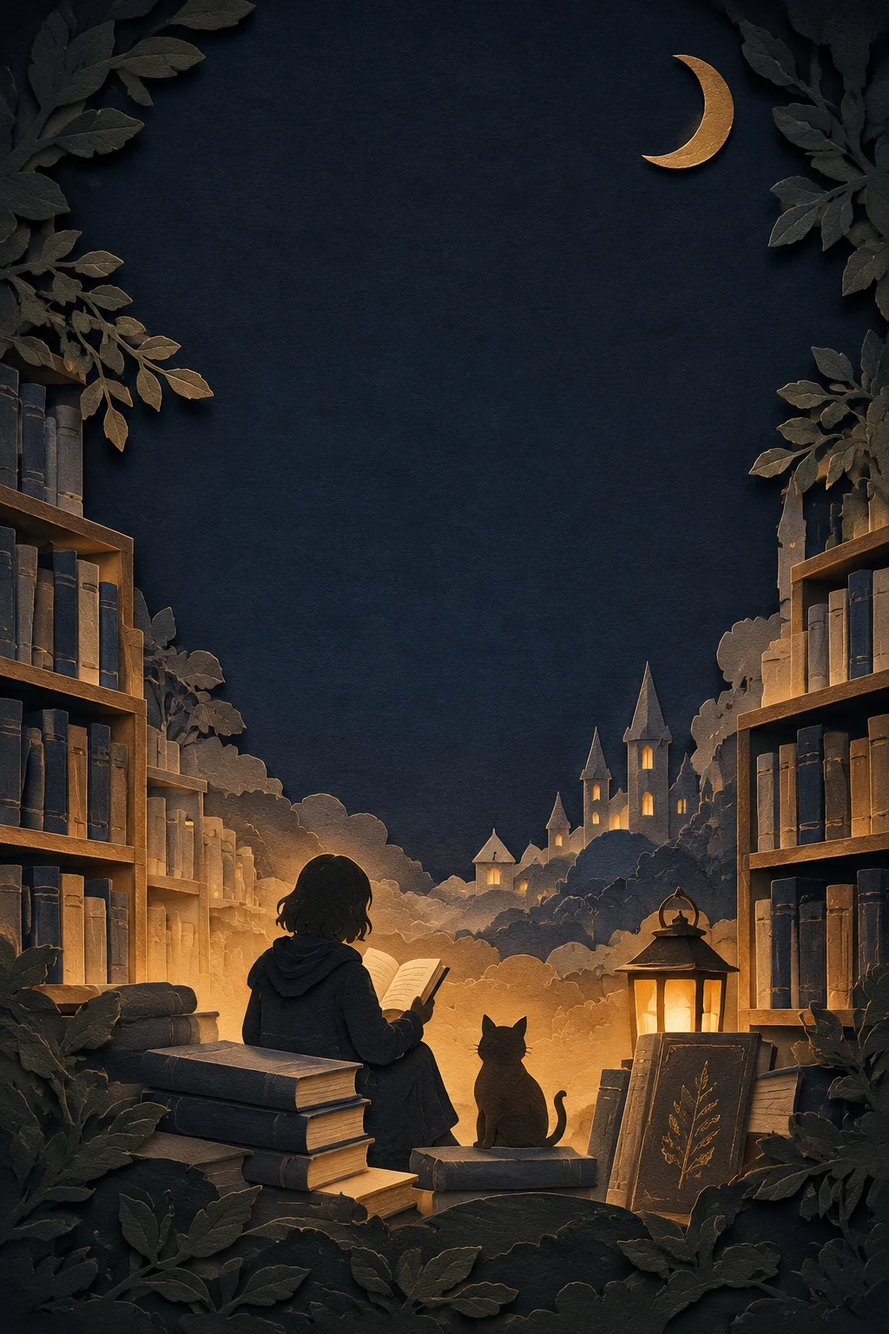
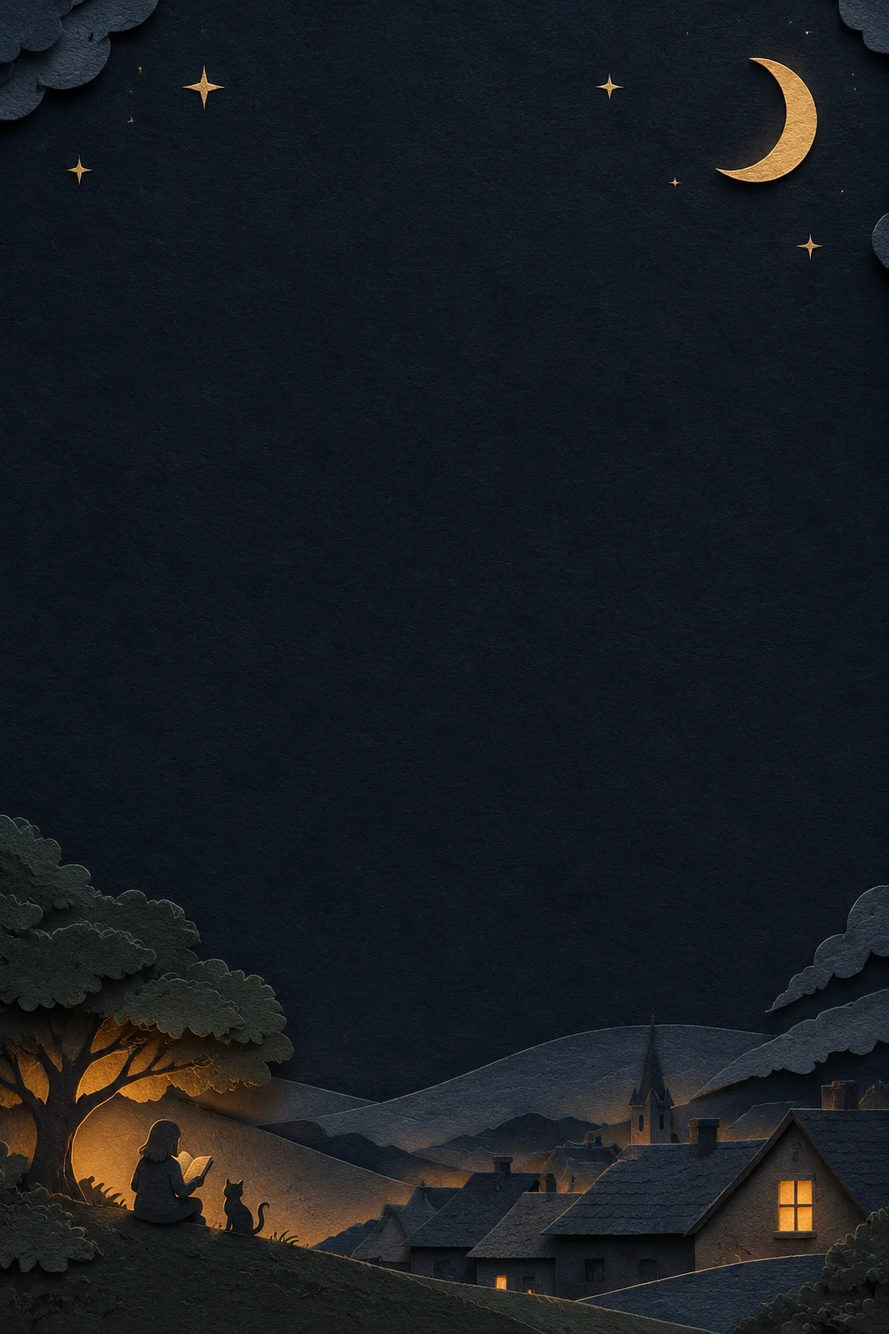
Итоги года: шрифты Unbounded + Onest, итоговый лист на спокойном фоне - одна главная цифра, колонки и номинация в плашке
Claude-Session: https://claude.ai/code/session_01SUGbBE4TZETwu6HLqvYps6

diff --git a/app.html b/app.html
@@ -7564,19 +7564,20 @@ let WRFP=null;const wrFonts=()=>WRFP||(WRFP=Promise.all(WRF.map(([f,n,w,st])=>{t
 // крупный текст антиквой, обложки с тенью. Весь текст подгоняется по размеру: слова не рвутся, длинное сжимается или сокращается с «…»
 async function wrCards(D){
   // «Бумажный театр»: у каждого листа своя картинка (img/itogi/p1-p6), текст - в спокойной верхней части; шрифты бренда - антиква Cormorant и гротеск Onest
-  const SI="NoraSerifI, Georgia, serif",SR="NoraSerif, Georgia, serif",FF="NoraSans, system-ui, sans-serif",GOLD="#E6C27A",CREAM="#F4ECDC",MUTE="rgba(244,236,220,.74)";
-  const CYR="U+0400-045F,U+0490-0491,U+04B0-04B1,U+2116",LAT="U+0000-00FF,U+0131,U+0152-0153,U+02BB-02BC,U+02C6,U+02DA,U+02DC,U+2000-206F,U+2074,U+20AC,U+2122,U+2190-2193,U+2212,U+2215,U+2605,U+FEFF,U+FFFD";
-  if(!wrCards.f){wrCards.f=Promise.all([["NoraSerifI","cormorant-garamond-%s-600-italic","600","italic"],["NoraSerif","cormorant-garamond-%s-600-normal","600","normal"],["NoraSans","onest-%s-500-normal","500","normal"],["NoraSans","onest-%s-600-normal","600","normal"]]
-    .flatMap(([fam,u,w,st])=>[["cyrillic",CYR],["latin",LAT]].map(([sub,ur])=>new FontFace(fam,`url(fonts/${u.replace("%s",sub)}.woff2)`,{weight:w,style:st,unicodeRange:ur}).load().then(f=>document.fonts.add(f)).catch(()=>{})))).catch(()=>{})}
+  const FP={lit:["WrLitI","WrLit","WrMan"],pf:["WrPfI","WrLit","WrMan"],forum:["WrForum","WrForum","WrMan"],unb:["WrUnb","WrUnb","WrOn"],cor:["WrCorI","WrCor","WrOn"]}[window.WR_FONT||"unb"]||["WrLitI","WrLit","WrMan"];
+  const SI=FP[0]+", Georgia, serif",SR=FP[1]+", Georgia, serif",FF=FP[2]+", system-ui, sans-serif",GOLD="#E6C27A",CREAM="#F4ECDC",MUTE="rgba(244,236,220,.74)";
+  const CYR="U+0400-045F,U+0490-0491,U+04B0-04B1,U+2116",LAT="U+0000-00FF,U+0131,U+0152-0153,U+02BB-02BC,U+02C6,U+02DA,U+02DC,U+2000-206F,U+2074,U+20AC,U+2122,U+2190-2193,U+2212,U+2215,U+FEFF,U+FFFD";
+  if(!wrCards.f){const F=[["WrLitI","literata-%s-wght-italic","600","italic"],["WrLit","literata-%s-wght-normal","600","normal"],["WrMan","manrope-%s-500-normal","500","normal"],["WrMan","manrope-%s-600-normal","600","normal"],["WrPfI","playfair-display-%s-600-italic","600","italic"],["WrForum","forum-%s-400-normal","600","normal"],["WrUnb","unbounded-%s-600-normal","600","normal"],["WrOn","onest-%s-500-normal","500","normal"],["WrOn","onest-%s-600-normal","600","normal"],["WrCorI","cormorant-garamond-%s-600-italic","600","italic"],["WrCor","cormorant-garamond-%s-600-normal","600","normal"]];
+    wrCards.f=Promise.all(F.flatMap(([fam,u,w,st])=>[["cyrillic",CYR],["latin",LAT]].map(([sub,ur])=>new FontFace(fam,`url(fonts/${u.replace("%s",sub)}.woff2)`,{weight:w,style:st,unicodeRange:ur}).load().then(f=>document.fonts.add(f)).catch(()=>{})))).catch(()=>{})}
   try{await wrCards.f}catch(e){}
   const n=D.L.length,out=[],hero=D.top[0]||D.last;
-  const ART=await Promise.all([1,2,3,4,5,6].map(k=>wrLd(`img/itogi/p${k}.webp?v=1`)));
+  const ART=await Promise.all([1,2,3,4,5,6].map(k=>wrLd(`img/itogi/p${k}.webp?v=2`)));
   const auN=a=>{a=String(a||"");const m=a.match(/^([^,]+),\s*(\S+)/);return m?m[2]+" "+m[1]:a},st=b=>b&&b.r!=null?Math.max(1,Math.min(5,Math.round(b.r/2))):0;
   const fitT=(x,t,font,maxW,maxL,f0,fmin)=>{t=String(t||"");let f=f0,L;const wr=()=>{x.font=font(f);const W=t.split(/\s+/).filter(Boolean);L=[];let cur="";for(const w of W){const tt=cur?cur+" "+w:w;if(x.measureText(tt).width>maxW&&cur){L.push(cur);cur=w}else cur=tt}if(cur)L.push(cur);return L.length<=maxL&&L.every(l=>x.measureText(l).width<=maxW)};
     while(f>fmin&&!wr())f-=2;if(!wr()){x.font=font(f);L=L.map(l=>{while(l.length>1&&x.measureText(l).width>maxW)l=l.slice(0,-1);return l});if(L.length>maxL){L.length=maxL;let s=L[maxL-1];while(s.length>1&&x.measureText(s+"…").width>maxW)s=s.slice(0,-1);L[maxL-1]=s.trimEnd()+"…"}}return {f,L}};
   const txt=(x,t,y,o)=>{const {f,L}=fitT(x,t,o.font,o.w||900,o.lines||1,o.size,o.min||o.size*.5);x.font=o.font(f);x.fillStyle=o.color||CREAM;x.textAlign="center";x.shadowColor="rgba(0,0,0,.55)";x.shadowBlur=18;const lh=f*(o.lh||1.1);
-    L.forEach((l,i)=>x.fillText(l,540,y+f*.8+i*lh));x.shadowColor="transparent";x.shadowBlur=0;x.textAlign="left";return y+f*.8+(L.length-1)*lh+f*.32};
-  const serif=f=>`italic 600 ${f}px ${SI}`,num=f=>`600 ${f}px ${SR}`,sans=f=>`500 ${f}px ${FF}`,sansB=f=>`600 ${f}px ${FF}`;
+    L.forEach((l,i)=>x.fillText(l,o.cx||540,y+f*.8+i*lh));x.shadowColor="transparent";x.shadowBlur=0;x.textAlign="left";return y+f*.8+(L.length-1)*lh+f*.32};
+  const serif=f=>`${/Forum|Unb/.test(FP[0])?"":"italic "}600 ${f}px ${SI}`,num=f=>`600 ${f}px ${SR}`,sans=f=>`500 ${f}px ${FF}`,sansB=f=>`600 ${f}px ${FF}`;
   const label=(x,t,y)=>txt(x,t,y,{font:sans,size:42,min:28,color:MUTE,w:900});
   // картинка на весь лист (снизу вверх), сверху - мягкое затемнение под текст; dy - сдвиг вниз для картинок, у которых сюжет высоко
   const mk=(k,dy)=>{const c=document.createElement("canvas");c.width=1080;c.height=1920;const x=c.getContext("2d");x.textBaseline="alphabetic";x.fillStyle="#0E1422";x.fillRect(0,0,1080,1920);
@@ -7592,23 +7593,35 @@ async function wrCards(D){
   {const [c,x]=mk(2);let y=label(x,D.top[0]?"Моя книга года":"Последняя книга года",250);y=txt(x,"«"+hero.t+"»",y+10,{font:serif,size:108,min:54,lines:2,w:940});y=txt(x,auN(hero.a),y+4,{font:sans,size:40,min:28,color:MUTE,w:900});stars(x,st(hero),y+14);out.push(c)}
   // 3. время с книгой: часы (45 страниц в час) и перелёты Москва - Владивосток (8 часов)
   {const [c,x]=mk(3,150),h=Math.round((D.pg||0)/45);let y=label(x,"Время с книгой",250);
-    if(h>=2){y=txt(x,`${h.toLocaleString("ru-RU")} ${plural(h,"час","часа","часов")}`,y+10,{font:num,size:190,min:90,w:960});const fl=Math.floor(h/8);
+    if(h>=2){y=txt(x,`${h.toLocaleString("ru-RU")} ${plural(h,"час","часа","часов")}`,y+10,{font:num,size:190,min:90,w:960});y=txt(x,"примерно, если читать в обычном темпе",y-6,{font:sans,size:32,color:MUTE});const fl=Math.floor(h/8);
       y=txt(x,`${D.pg.toLocaleString("ru-RU")} ${plural(D.pg,"страница","страницы","страниц")}`+(fl>=1?` - как ${fl} ${plural(fl,"перелёт","перелёта","перелётов")}`:""),y+6,{font:sans,size:38,min:26,color:MUTE,w:900});if(fl>=1)txt(x,"Москва - Владивосток",y,{font:sans,size:38,color:MUTE})}
     else{y=txt(x,`${n} ${plural(n,"книга","книги","книг")}`,y+10,{font:num,size:190,min:90,w:960});txt(x,"за этот год",y+6,{font:sans,size:38,color:MUTE})}
     out.push(c)}
   // 4. автор года или самая толстая книга
   {const A=D.au[0];if(A&&A[1]>=2){const [c,x]=mk(4);let y=label(x,"Автор года",250);y=txt(x,auN(A[0]),y+10,{font:serif,size:112,min:54,lines:2,w:940});txt(x,`${A[1]} ${plural(A[1],"книга","книги","книг")} за год`,y+8,{font:sansB,size:46,color:GOLD});out.push(c)}
     else if(D.long&&D.long.pg){const L=D.long,[c,x]=mk(4);let y=label(x,"Самая толстая книга",250);y=txt(x,"«"+L.t+"»",y+10,{font:serif,size:100,min:50,lines:2,w:940});y=txt(x,`${L.pg.toLocaleString("ru-RU")} ${plural(L.pg,"страница","страницы","страниц")}`,y+8,{font:sansB,size:46,color:GOLD});txt(x,auN(L.a),y+4,{font:sans,size:38,min:26,color:MUTE,w:900});out.push(c)}}
+  // номинация года (нужна на 5-м и на итоговом листе)
+  const NOM=(()=>{const L=D.L,tg=b=>(catOf(b)||b).tags||[],sh=f=>L.filter(f).length/n,rt=L.filter(b=>b.r!=null),av=rt.length?rt.reduce((s,b)=>s+b.r/2,0)/rt.length:0,bigB=L.filter(b=>(b.pg||0)>=500).length,mx=Math.max(...D.mon);
+    const N=[[sh(b=>tg(b).some(t=>/любов|ромэнтези/.test(t)))>=.4,"Я всё ещё верю в любовь","Больше всего книг о любви"],[sh(b=>tg(b).some(t=>/триллер|хоррор|жутковат|мрачн/.test(t)))>=.4,"Тёмная душа","Больше всего триллеров и мрачных историй"],[bigB>=3&&bigB/n>=.4,"Коллекционер кирпичей","Больше всего книг от 500 страниц"],[sh(b=>b.g==="classic")>=.4,"Вечный студент","Больше всего классики"],[D.au[0]&&D.au[0][1]>=3,"Один автор - одна любовь",D.au[0]?`${D.au[0][1]} ${plural(D.au[0][1],"книга","книги","книг")} - ${auN(D.au[0][0])}`:""],[rt.length>=5&&av>=4.5,"Книжный сноб наоборот","Почти всё на пятёрку"],[rt.length>=5&&av<=3,"Критик года","Пятёрки нужно заслужить"],[mx>=5,"Работать не хочу, читать хочу",`${mx} ${plural(mx,"книга","книги","книг")} за один месяц`],[new Set(L.map(b=>b.g)).size>=5,"Читаю всё подряд","Больше пяти разных жанров"],[true,"Своя волна","Год, не похожий ни на чей другой"]];return N.find(z=>z[0])})();
   // 5. номинация года и читательский тип
-  {const L=D.L,tg=b=>(catOf(b)||b).tags||[],sh=f=>L.filter(f).length/n,rt=L.filter(b=>b.r!=null),av=rt.length?rt.reduce((s,b)=>s+b.r/2,0)/rt.length:0,bigB=L.filter(b=>(b.pg||0)>=500).length,mx=Math.max(...D.mon);
-    const N=[[sh(b=>tg(b).some(t=>/любов|ромэнтези/.test(t)))>=.4,"Я всё ещё верю в любовь","Больше всего книг о любви"],[sh(b=>tg(b).some(t=>/триллер|хоррор|жутковат|мрачн/.test(t)))>=.4,"Тёмная душа","Больше всего триллеров и мрачных историй"],[bigB>=3&&bigB/n>=.4,"Коллекционер кирпичей","Больше всего книг от 500 страниц"],[sh(b=>b.g==="classic")>=.4,"Вечный студент","Больше всего классики"],[D.au[0]&&D.au[0][1]>=3,"Один автор - одна любовь",D.au[0]?`${D.au[0][1]} ${plural(D.au[0][1],"книга","книги","книг")} - ${auN(D.au[0][0])}`:""],[rt.length>=5&&av>=4.5,"Книжный сноб наоборот","Почти всё на пятёрку"],[rt.length>=5&&av<=3,"Критик года","Пятёрки нужно заслужить"],[mx>=5,"Работать не хочу, читать хочу",`${mx} ${plural(mx,"книга","книги","книг")} за один месяц`],[new Set(L.map(b=>b.g)).size>=5,"Читаю всё подряд","Больше пяти разных жанров"],[true,"Своя волна","Год, не похожий ни на чей другой"]],w=N.find(z=>z[0]);
+  {const w=NOM;
     const [c,x]=mk(5,110);let y=label(x,"Номинация года",230);y=txt(x,"«"+w[1]+"»",y+10,{font:serif,size:96,min:48,lines:2,w:940});y=txt(x,w[2],y+4,{font:sans,size:38,min:26,lines:2,color:MUTE,w:900});
     y=txt(x,"мой читательский тип",y+40,{font:sansB,size:34,color:GOLD});txt(x,D.type[0],y,{font:serif,size:68,min:40,lines:2,w:900});out.push(c)}
-  // 6. итог: год в цифрах
-  {const [c,x]=mk(6);let y=txt(x,`Мой ${D.Y} в цифрах`,210,{font:serif,size:100,min:60,w:960})+30;const rt=D.L.filter(b=>b.r!=null),bm=D.mon[D.best]||0;
-    const love=D.L.filter(b=>((catOf(b)||b).tags||[]).some(t=>/ромэнтези/.test(t))).length,g0=(D.gk[0]||[])[0],gen=love>=Math.max(2,(D.gk[0]||[0,0])[1]*.6)?"ромэнтези":g0&&GEN[g0]?GEN[g0].toLowerCase():"";
-    const R=[[String(n),plural(n,"книга","книги","книг"),1]];if(D.pg)R.push([D.pg.toLocaleString("ru-RU"),plural(D.pg,"страница","страницы","страниц")]);if(bm>=2)R.push([WR_MF[D.best],"самый читающий месяц"]);if(gen)R.push([gen,"любимый жанр"]);if(rt.length>=3)R.push([D.avg.toFixed(1).replace(".",","),"средняя оценка"]);
-    const big=R.length>4?78:88;R.forEach(([v,l,g])=>{y=txt(x,v,y,{font:num,size:big,min:44,w:900,color:g?GOLD:CREAM});y=txt(x,l,y-10,{font:sans,size:34,color:MUTE})+18});out.push(c)}
+  // 6. итог: одна главная цифра (страницы), под ней две колонки, жанр и номинация в отдельной плашке
+  {const [c,x]=mk(6);const bm=D.mon[D.best]||0,love=D.L.filter(b=>((catOf(b)||b).tags||[]).some(t=>/ромэнтези/.test(t))).length,g0=(D.gk[0]||[])[0],gen=love>=Math.max(2,(D.gk[0]||[0,0])[1]*.6)?"ромэнтези":g0&&GEN[g0]?GEN[g0].toLowerCase():"";
+    const lab=(t,y,cx,w)=>txt(x,t,y,{font:sans,size:30,min:22,lines:2,color:MUTE,w:w||420,cx}),line=y=>{x.fillStyle="rgba(230,194,122,.35)";x.fillRect(340,y,400,2)};
+    let y=txt(x,`Мой ${D.Y} в цифрах`,250,{font:sansB,size:44,color:CREAM})+30;
+    if(D.pg){y=txt(x,D.pg.toLocaleString("ru-RU"),y,{font:num,size:180,min:100,w:920,color:GOLD});y=lab(plural(D.pg,"страница прочитана","страницы прочитано","страниц прочитано"),y-12,540,700)+44}
+    else{y=txt(x,String(n),y,{font:num,size:180,color:GOLD});y=lab(plural(n,"книга прочитана","книги прочитано","книг прочитано"),y-12,540,700)+44}
+    line(y-20);y+=24;
+    const L2=[];if(D.pg)L2.push([String(n),plural(n,"книга","книги","книг")]);if(bm>=2)L2.push([WR_MF[D.best],"самый читающий месяц"]);
+    if(L2.length===2){const ya=txt(x,L2[0][0],y,{font:num,size:76,w:420,cx:290}),yb=txt(x,L2[1][0],y+8,{font:num,size:60,min:40,w:440,cx:790});const y2=Math.max(ya,yb);lab(L2[0][1],y2-6,290);y=lab(L2[1][1],y2-6,790)+36}
+    else if(L2.length===1){y=txt(x,L2[0][0],y,{font:num,size:76,w:600});y=lab(L2[0][1],y-6,540)+36}
+    if(gen){y=lab("любимый жанр",y,540,700);y=txt(x,gen,y,{font:sansB,size:50,min:34,w:860})+30}
+    // номинация - в бумажной плашке
+    {const {f,L:TL}=fitT(x,"«"+NOM[1]+"»",serif,760,2,48,32),bh=78+TL.length*f*1.15+34,by=y+10;x.fillStyle="rgba(10,14,26,.62)";wrRR(x,140,by,800,bh,36);x.fill();x.strokeStyle="rgba(230,194,122,.5)";x.lineWidth=2;x.stroke();
+      x.font=sans(30);x.fillStyle=GOLD;x.textAlign="center";x.fillText("номинация года",540,by+56);x.font=serif(f);x.fillStyle=CREAM;TL.forEach((l,k)=>x.fillText(l,540,by+78+f*.9+k*f*1.15));x.textAlign="left"}
+    out.push(c)}
   return out}
 function wrFill(){if(WR&&WR.u&&!wrEl.querySelector(".wr-full"))wrDraw()}
 function wrPrep(){if(!WR)return Promise.resolve(null);const W=WR;if(!W.p)W.p=wrCards(W.D).then(cs=>Promise.all(cs.map(c=>new Promise(r=>{try{c.toBlob(b=>r(b),"image/png")}catch(e){r(null)}})))).then(bs=>{bs=bs.filter(Boolean);return bs.length?bs:null}).catch(()=>null);

diff --git a/app-dev.html b/app-dev.html
@@ -7564,19 +7564,19 @@ let WRFP=null;const wrFonts=()=>WRFP||(WRFP=Promise.all(WRF.map(([f,n,w,st])=>{t
 // крупный текст антиквой, обложки с тенью. Весь текст подгоняется по размеру: слова не рвутся, длинное сжимается или сокращается с «…»
 async function wrCards(D){
   // «Бумажный театр»: у каждого листа своя картинка (img/itogi/p1-p6), текст - в спокойной верхней части; шрифты бренда - антиква Cormorant и гротеск Onest
-  const FP={lit:["WrLitI","WrLit","WrMan"],pf:["WrPfI","WrLit","WrMan"],forum:["WrForum","WrForum","WrMan"],unb:["WrUnb","WrUnb","WrOn"],cor:["WrCorI","WrCor","WrOn"]}[window.WR_FONT||"lit"]||["WrLitI","WrLit","WrMan"];
+  const FP={lit:["WrLitI","WrLit","WrMan"],pf:["WrPfI","WrLit","WrMan"],forum:["WrForum","WrForum","WrMan"],unb:["WrUnb","WrUnb","WrOn"],cor:["WrCorI","WrCor","WrOn"]}[window.WR_FONT||"unb"]||["WrLitI","WrLit","WrMan"];
   const SI=FP[0]+", Georgia, serif",SR=FP[1]+", Georgia, serif",FF=FP[2]+", system-ui, sans-serif",GOLD="#E6C27A",CREAM="#F4ECDC",MUTE="rgba(244,236,220,.74)";
   const CYR="U+0400-045F,U+0490-0491,U+04B0-04B1,U+2116",LAT="U+0000-00FF,U+0131,U+0152-0153,U+02BB-02BC,U+02C6,U+02DA,U+02DC,U+2000-206F,U+2074,U+20AC,U+2122,U+2190-2193,U+2212,U+2215,U+FEFF,U+FFFD";
   if(!wrCards.f){const F=[["WrLitI","literata-%s-wght-italic","600","italic"],["WrLit","literata-%s-wght-normal","600","normal"],["WrMan","manrope-%s-500-normal","500","normal"],["WrMan","manrope-%s-600-normal","600","normal"],["WrPfI","playfair-display-%s-600-italic","600","italic"],["WrForum","forum-%s-400-normal","600","normal"],["WrUnb","unbounded-%s-600-normal","600","normal"],["WrOn","onest-%s-500-normal","500","normal"],["WrOn","onest-%s-600-normal","600","normal"],["WrCorI","cormorant-garamond-%s-600-italic","600","italic"],["WrCor","cormorant-garamond-%s-600-normal","600","normal"]];
     wrCards.f=Promise.all(F.flatMap(([fam,u,w,st])=>[["cyrillic",CYR],["latin",LAT]].map(([sub,ur])=>new FontFace(fam,`url(fonts/${u.replace("%s",sub)}.woff2)`,{weight:w,style:st,unicodeRange:ur}).load().then(f=>document.fonts.add(f)).catch(()=>{})))).catch(()=>{})}
   try{await wrCards.f}catch(e){}
   const n=D.L.length,out=[],hero=D.top[0]||D.last;
-  const ART=await Promise.all([1,2,3,4,5,6].map(k=>wrLd(`img/itogi/p${k}.webp?v=1`)));
+  const ART=await Promise.all([1,2,3,4,5,6].map(k=>wrLd(`img/itogi/p${k}.webp?v=2`)));
   const auN=a=>{a=String(a||"");const m=a.match(/^([^,]+),\s*(\S+)/);return m?m[2]+" "+m[1]:a},st=b=>b&&b.r!=null?Math.max(1,Math.min(5,Math.round(b.r/2))):0;
   const fitT=(x,t,font,maxW,maxL,f0,fmin)=>{t=String(t||"");let f=f0,L;const wr=()=>{x.font=font(f);const W=t.split(/\s+/).filter(Boolean);L=[];let cur="";for(const w of W){const tt=cur?cur+" "+w:w;if(x.measureText(tt).width>maxW&&cur){L.push(cur);cur=w}else cur=tt}if(cur)L.push(cur);return L.length<=maxL&&L.every(l=>x.measureText(l).width<=maxW)};
     while(f>fmin&&!wr())f-=2;if(!wr()){x.font=font(f);L=L.map(l=>{while(l.length>1&&x.measureText(l).width>maxW)l=l.slice(0,-1);return l});if(L.length>maxL){L.length=maxL;let s=L[maxL-1];while(s.length>1&&x.measureText(s+"…").width>maxW)s=s.slice(0,-1);L[maxL-1]=s.trimEnd()+"…"}}return {f,L}};
   const txt=(x,t,y,o)=>{const {f,L}=fitT(x,t,o.font,o.w||900,o.lines||1,o.size,o.min||o.size*.5);x.font=o.font(f);x.fillStyle=o.color||CREAM;x.textAlign="center";x.shadowColor="rgba(0,0,0,.55)";x.shadowBlur=18;const lh=f*(o.lh||1.1);
-    L.forEach((l,i)=>x.fillText(l,540,y+f*.8+i*lh));x.shadowColor="transparent";x.shadowBlur=0;x.textAlign="left";return y+f*.8+(L.length-1)*lh+f*.32};
+    L.forEach((l,i)=>x.fillText(l,o.cx||540,y+f*.8+i*lh));x.shadowColor="transparent";x.shadowBlur=0;x.textAlign="left";return y+f*.8+(L.length-1)*lh+f*.32};
   const serif=f=>`${/Forum|Unb/.test(FP[0])?"":"italic "}600 ${f}px ${SI}`,num=f=>`600 ${f}px ${SR}`,sans=f=>`500 ${f}px ${FF}`,sansB=f=>`600 ${f}px ${FF}`;
   const label=(x,t,y)=>txt(x,t,y,{font:sans,size:42,min:28,color:MUTE,w:900});
   // картинка на весь лист (снизу вверх), сверху - мягкое затемнение под текст; dy - сдвиг вниз для картинок, у которых сюжет высоко
@@ -7607,13 +7607,21 @@ async function wrCards(D){
   {const w=NOM;
     const [c,x]=mk(5,110);let y=label(x,"Номинация года",230);y=txt(x,"«"+w[1]+"»",y+10,{font:serif,size:96,min:48,lines:2,w:940});y=txt(x,w[2],y+4,{font:sans,size:38,min:26,lines:2,color:MUTE,w:900});
     y=txt(x,"мой читательский тип",y+40,{font:sansB,size:34,color:GOLD});txt(x,D.type[0],y,{font:serif,size:68,min:40,lines:2,w:900});out.push(c)}
-  // 6. итог: год в цифрах - страницы первыми и крупно, потом книги, месяц, жанр и номинация
-  {const [c,x]=mk(6);let y=txt(x,`Мой ${D.Y} в цифрах`,200,{font:serif,size:92,min:56,w:960})+24;const bm=D.mon[D.best]||0;
-    const love=D.L.filter(b=>((catOf(b)||b).tags||[]).some(t=>/ромэнтези/.test(t))).length,g0=(D.gk[0]||[])[0],gen=love>=Math.max(2,(D.gk[0]||[0,0])[1]*.6)?"ромэнтези":g0&&GEN[g0]?GEN[g0].toLowerCase():"";
-    if(D.pg){y=txt(x,D.pg.toLocaleString("ru-RU"),y,{font:num,size:200,min:110,w:960,color:GOLD});y=txt(x,plural(D.pg,"страница","страницы","страниц"),y-18,{font:sans,size:40,color:MUTE})+22}
-    const R=[[String(n),plural(n,"книга","книги","книг")]];if(!D.pg)R[0].push(1);if(bm>=2)R.push([WR_MF[D.best],"самый читающий месяц"]);if(gen)R.push([gen,"любимый жанр"]);
-    R.forEach(([v,l,g])=>{y=txt(x,v,y,{font:num,size:g?150:72,min:40,w:900,color:g?GOLD:CREAM});y=txt(x,l,y-10,{font:sans,size:32,color:MUTE})+14});
-    y=txt(x,"«"+NOM[1]+"»",y+6,{font:serif,size:60,min:36,lines:2,w:900});txt(x,"номинация года",y-6,{font:sans,size:32,color:MUTE});out.push(c)}
+  // 6. итог: одна главная цифра (страницы), под ней две колонки, жанр и номинация в отдельной плашке
+  {const [c,x]=mk(6);const bm=D.mon[D.best]||0,love=D.L.filter(b=>((catOf(b)||b).tags||[]).some(t=>/ромэнтези/.test(t))).length,g0=(D.gk[0]||[])[0],gen=love>=Math.max(2,(D.gk[0]||[0,0])[1]*.6)?"ромэнтези":g0&&GEN[g0]?GEN[g0].toLowerCase():"";
+    const lab=(t,y,cx,w)=>txt(x,t,y,{font:sans,size:30,min:22,lines:2,color:MUTE,w:w||420,cx}),line=y=>{x.fillStyle="rgba(230,194,122,.35)";x.fillRect(340,y,400,2)};
+    let y=txt(x,`Мой ${D.Y} в цифрах`,250,{font:sansB,size:44,color:CREAM})+30;
+    if(D.pg){y=txt(x,D.pg.toLocaleString("ru-RU"),y,{font:num,size:180,min:100,w:920,color:GOLD});y=lab(plural(D.pg,"страница прочитана","страницы прочитано","страниц прочитано"),y-12,540,700)+44}
+    else{y=txt(x,String(n),y,{font:num,size:180,color:GOLD});y=lab(plural(n,"книга прочитана","книги прочитано","книг прочитано"),y-12,540,700)+44}
+    line(y-20);y+=24;
+    const L2=[];if(D.pg)L2.push([String(n),plural(n,"книга","книги","книг")]);if(bm>=2)L2.push([WR_MF[D.best],"самый читающий месяц"]);
+    if(L2.length===2){const ya=txt(x,L2[0][0],y,{font:num,size:76,w:420,cx:290}),yb=txt(x,L2[1][0],y+8,{font:num,size:60,min:40,w:440,cx:790});const y2=Math.max(ya,yb);lab(L2[0][1],y2-6,290);y=lab(L2[1][1],y2-6,790)+36}
+    else if(L2.length===1){y=txt(x,L2[0][0],y,{font:num,size:76,w:600});y=lab(L2[0][1],y-6,540)+36}
+    if(gen){y=lab("любимый жанр",y,540,700);y=txt(x,gen,y,{font:sansB,size:50,min:34,w:860})+30}
+    // номинация - в бумажной плашке
+    {const {f,L:TL}=fitT(x,"«"+NOM[1]+"»",serif,760,2,48,32),bh=78+TL.length*f*1.15+34,by=y+10;x.fillStyle="rgba(10,14,26,.62)";wrRR(x,140,by,800,bh,36);x.fill();x.strokeStyle="rgba(230,194,122,.5)";x.lineWidth=2;x.stroke();
+      x.font=sans(30);x.fillStyle=GOLD;x.textAlign="center";x.fillText("номинация года",540,by+56);x.font=serif(f);x.fillStyle=CREAM;TL.forEach((l,k)=>x.fillText(l,540,by+78+f*.9+k*f*1.15));x.textAlign="left"}
+    out.push(c)}
   return out}
 function wrFill(){if(WR&&WR.u&&!wrEl.querySelector(".wr-full"))wrDraw()}
 function wrPrep(){if(!WR)return Promise.resolve(null);const W=WR;if(!W.p)W.p=wrCards(W.D).then(cs=>Promise.all(cs.map(c=>new Promise(r=>{try{c.toBlob(b=>r(b),"image/png")}catch(e){r(null)}})))).then(bs=>{bs=bs.filter(Boolean);return bs.length?bs:null}).catch(()=>null);
